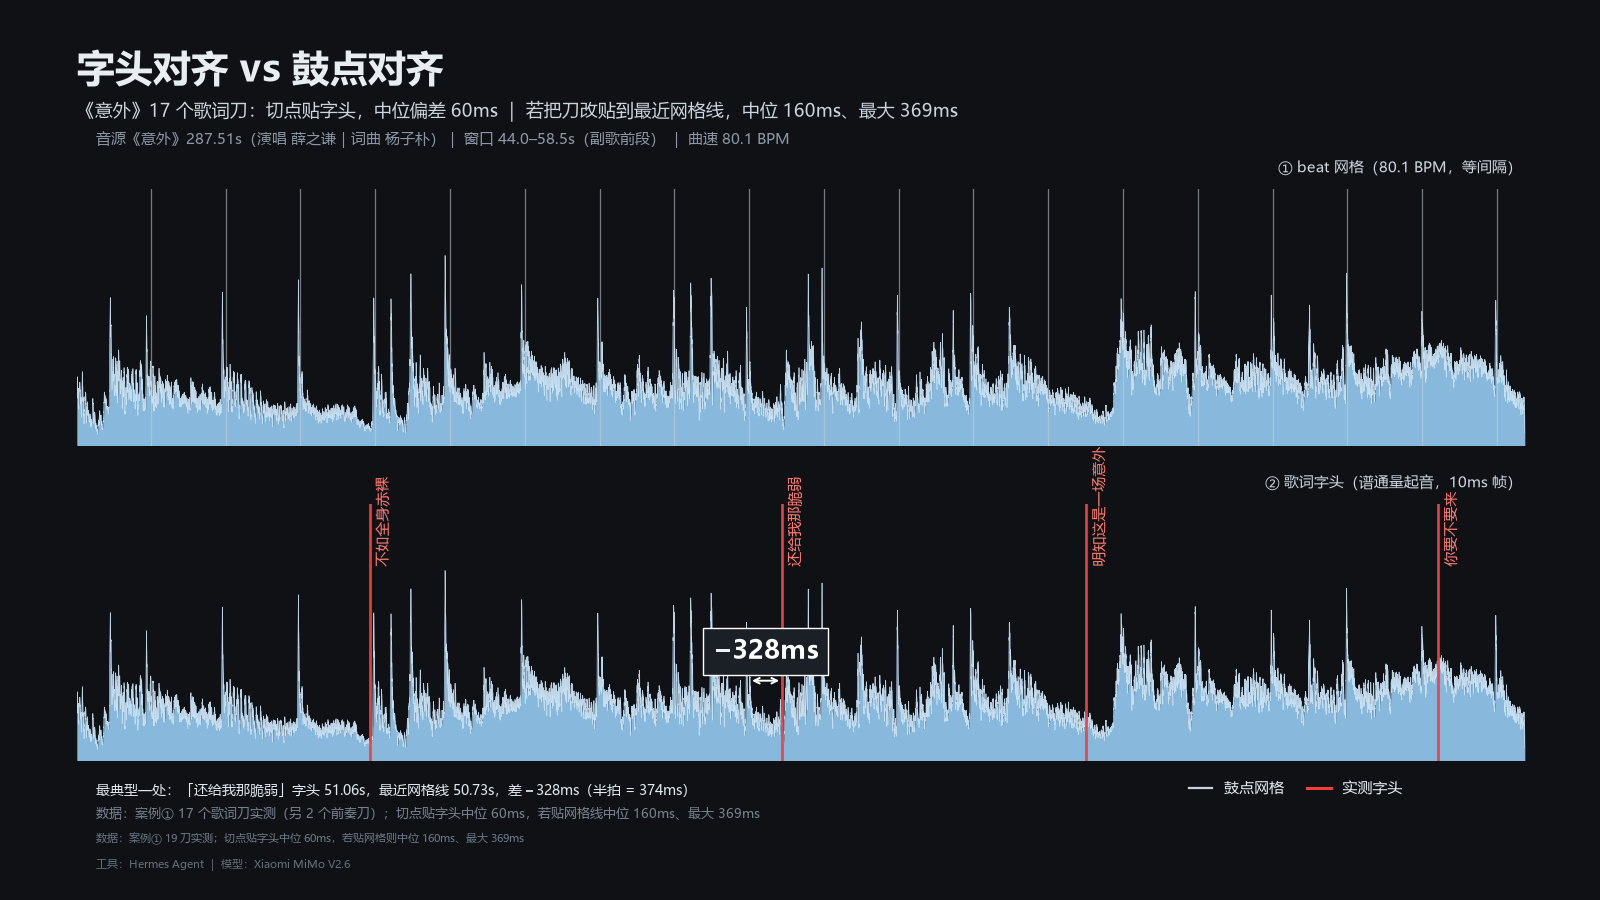
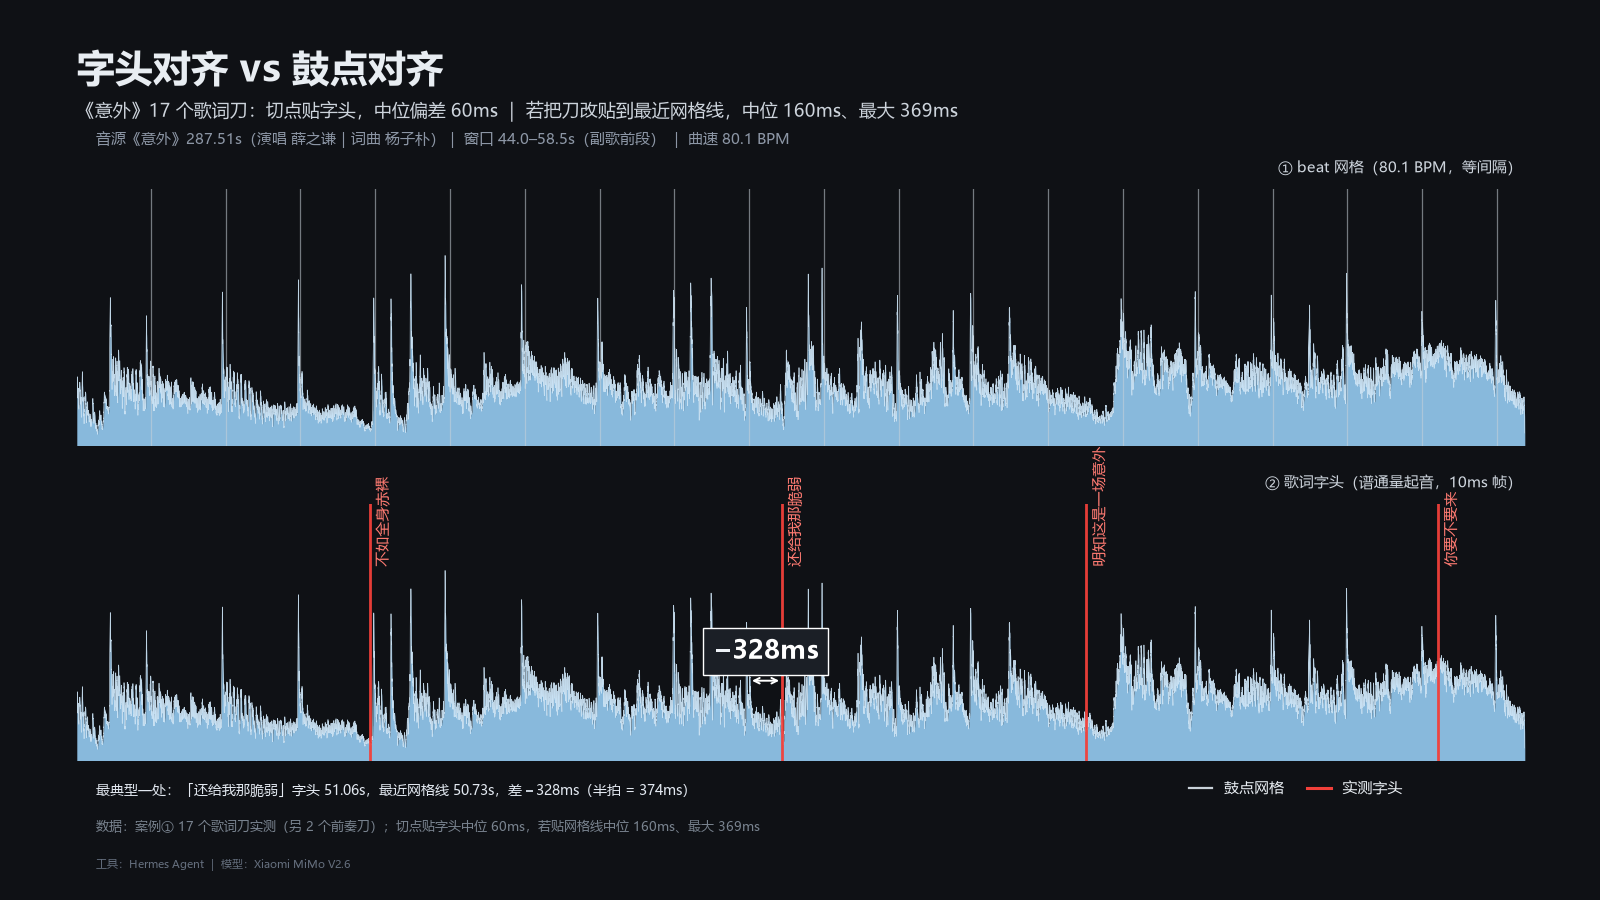
Remove stale 19-cut data line; unify onset wording; tidy alias notes and specs

Changed region(s): [[0.0625, 0.9022, 0.4688, 0.9333]]

diff --git a/showcase/_tools/render_cutproof.py b/showcase/_tools/render_cutproof.py
@@ -94,7 +94,7 @@ def render_tuimen():
     T0,T1=12.6,31.9
     cuts=[13.30,16.60,20.15,23.35,27.15,30.70]
     img,d=frame("字头对齐 vs 鼓点对齐",
-      "《推开世界的门》55s 版（全片 16 刀／本窗口 6 刀）：切点贴人耳落点，比检测器上升沿晚中位 245ms ｜ 改贴最近网格线则中位差 214ms",
+      "《推开世界的门》55s 版（全片 16 刀／本窗口 6 刀）：切点贴人耳落点，比检测器报的持续段上升沿晚中位 245ms ｜ 改贴最近网格线则中位差 214ms",
       "音源 成片音轨 55.00s（演唱 杨乃文｜词曲 火星电台 / 黄少峰） ｜ 窗口 12.6–31.9s ｜ 曲速 70.0 BPM（格距 0.857s，相位集中度 0.60）｜ 网格＝低频拟合，非人工标拍")
     AU,AD=178,438; BU,BD=462,722
     wave_panel(d,AU,AD,e,tt,T0,T1); grid_lines(d,PH,P,T0,T1,AU,AD)
@@ -110,7 +110,7 @@ def render_tuimen():
     d.line([(xa,BU),(xa,BD)],fill="#ffffff",width=1)
     arrow(d,xa,xb,BD-52); badge(d,xb+64,BD-96,"+250ms",F(20,True))
     finish(img,d,
-      "典型一处：「捧着一颗」旧切点 13.05s、检测持续段上升沿 13.05s —— 包络说「刚好」，耳朵说「早了」，后移 250ms 到 13.30s",
+      "典型一处：「捧着一颗」旧切点 13.05s、检测器报的持续段上升沿 13.05s —— 包络说「刚好」，耳朵说「早了」，后移 250ms 到 13.30s",
       "鼓点网格","人耳切点",
       "为什么 beat 检测测不到：它只给等间隔网格，不知道哪一下开始一句；人耳听的是元音唱出来的落点，比能量抬头晚 0.15–0.25s。",
       "数据：《推开世界的门》镜头表 + 逐刀字头表（10 刀实测）｜ 网格 check_cut.py fit_grid")

diff --git a/showcase/推开世界的门-55s/镜头表.md b/showcase/推开世界的门-55s/镜头表.md
@@ -9,7 +9,7 @@
 | 3  | 6.18  | 3.42 | 你是站在门外怕迟到的人   | 中性    | S03         | 5.00 | 站台抵达、和谐号在侧，站在车门外                                            |
 | 4  | 9.60  | 3.70 | 你是站在门外怕迟到的人   | 中性    | S02         | 50.00 | 检票口候车区，赶车的人流                                                |
 | 5  | 13.30 | 3.30 | 捧着一颗不懂计较的认真   | 积极    | S04         | 116.00 | 两人俯身检修轮椅，认真做事的特写（竖屏垫底）                                      |
-| 6  | 16.60 | 3.55 | 捧着一颗不懂计较的认真   | 积极    | `S17`                          | 918.00 | 复兴号无障碍车厢展景，门头金字，第二扇“门”                                      |
+| 6  | 16.60 | 3.55 | 捧着一颗不懂计较的认真   | 积极    | S17                          | 918.00 | 复兴号无障碍车厢展景，门头金字，第二扇“门”                                      |
 | 7  | 20.15 | 3.20 | 吻过你的眼睛 就无畏的青春 | 积极    | S05         | 193.00 | 轮椅球迷仰头呐喊转大笑，情绪最高                                            |
 | 8  | 23.35 | 3.80 | 吻过你的眼睛 就无畏的青春 | 积极    | S06         | 89.00 | 漫展奶龙互动：只保留奶龙这段，同一素材前面 1 秒的人群特写不用（那条素材内部会换画面，保留两段会像一刀切太快的两刀） |
 | 9  | 27.15 | 3.55 | 左手的泥呀 右手的泥呀   | 艰难    | S07         | 71.00 | 蹲地换轮椅后轮的双手与工具，正对“泥”（竖屏垫底）                                   |

diff --git a/showcase/骄傲的少年-115s/候选表.md b/showcase/骄傲的少年-115s/候选表.md
@@ -74,9 +74,9 @@
 | 1 在一开始 | 素材组甲 A-3 @0-3 | `素材组甲 A-2` @97-101 布鲁托+笑脸 | A-3 开头 0-3s 前景压着挡脸人头 |
 | 2 当初我还是 | 素材组戊 C-2 @37-44 | `素材组戊 C-2` @41-46 | 37s 左侧压着大玩偶，41s 起正脸大笑 |
 | 5 终于才明白 | 素材组戊 C-1 @41-60 | `素材组己 E-1` @139-148 户外口播 | C-1 是展台远景，不是讲述镜 |
-| 8 一切都已改变 | 素材组寅 @27-37 试坡 | `S02` @3-10 坡道/扶手 POV | 27-37s 是街景不是试坡；蓝牌那条 @288-292 含电话，已整窗禁用 |
-| 11 也流过了眼泪 | 素材组丑 夜广场 @0-9 | `S15` @100-110 低头转抬头 | 夜广场太暗、红光压脸 |
-| 6/17 备选 | 素材组子 @52-62 / @504-516 | 素材组卯 @293-341 / 素材组己 E-1 | 素材组子整条不用 |
+| 8 一切都已改变 | 素材组寅（即上表 `S02`）@27-37 | `S02` @3-10 坡道/扶手 POV | 27-37s 是街景不是试坡；蓝牌那条 @288-292 含电话，已整窗禁用 |
+| 11 也流过了眼泪 | 素材组丑（即上表 `S33`）夜广场 @0-9 | `S15` @100-110 低头转抬头 | 夜广场太暗、红光压脸 |
+| 6/17 备选 | 素材组子 @52-62 / @504-516 | 素材组卯（即上表 `S32`）@293-341 / 素材组己 E-1 | 素材组子整条不用 |
 
 ---
 

diff --git a/showcase/推开世界的门-55s/自检报告.md b/showcase/推开世界的门-55s/自检报告.md
@@ -33,7 +33,7 @@ B 按鼓点网格切：中位 +214ms ｜ 绝对中位 214ms
 曲速 70.0 BPM ｜ 格距 0.857s
 ```
 
-三个数别混算：上面两行 A 是**切点 − 人工标注字头**，字头用两把尺子标（谱通量峰 / RMS 上升起点），两者差 0.1s 是同一条红线被量了两次。`cut-proof.png` 副标题的 **245ms** 是**切点 − 检测器报的持续段上升沿**（300–3000Hz 带通、持续段判据，同批 10 刀），它同时比谱通量峰晚 115ms——这是检测器口径，不是字头口径，与上面的 35ms / 107ms 不同源。
+三个数别混算：上面两行 A 是**切点 − 人工标注字头**，字头用两把尺子标（谱通量峰 / RMS 上升起点），两者差 0.1s 是同一条红线被量了两次。`cut-proof.png` 副标题的 **245ms** 是**切点 − 检测器报的持续段上升沿**（300–3000Hz 带通、持续段判据，同批 10 刀），它同时比检测器报的谱通量峰晚 115ms——这是检测器口径，不是字头口径，与上面的 35ms / 107ms 不同源。
 
 ## 三、逐刀（第四版）
 

diff --git a/showcase/意外-20261018/README.md b/showcase/意外-20261018/README.md
@@ -14,6 +14,7 @@
 
 | 项              | 值                                |
 | -------------- | -------------------------------- |
+| 成片时长           | 98.00s（30fps，2940 帧）              |
 | 刀数             | 17（去掉 0.00 / 6.10 两个前奏刀）         |
 | 曲速             | 80.1 BPM，格距 ≈ 0.75 秒，半拍 ≈ 375 毫秒 |
 | 切点口径           | 每句第一个字的发音瞬间                      |
